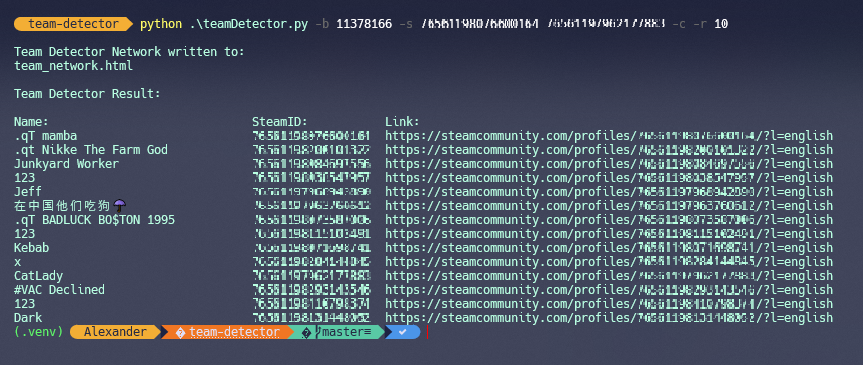
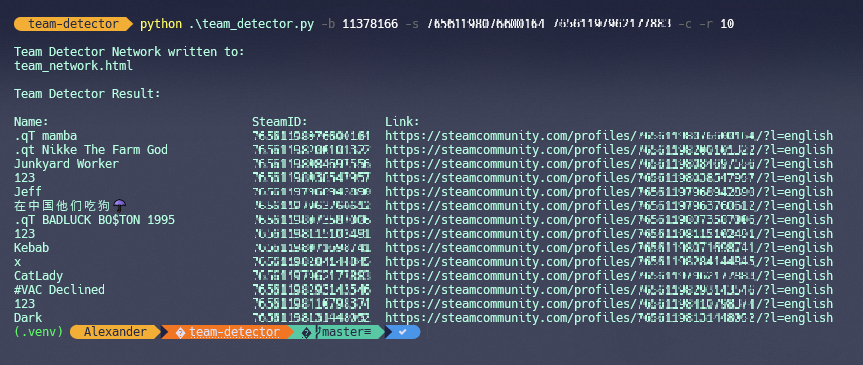
Update readme and image with new name

Changed region(s): [[0.2109, 0.0301, 0.8737, 0.0904]]

diff --git a/README.md b/README.md
@@ -39,7 +39,7 @@ When you run the program once, the Battlemetrics Server ID and SteamID will be s
 You can download the windows executable from [releases](https://github.com/alexemanuelol/team-detector/releases) page and run the .exe file like so:
 
 ```bash
-$ teamDetector.exe -b 11378166 -s 76561198114074446
+$ team_detector.exe -b 11378166 -s 76561198114074446
 ```
 
 # Notes
